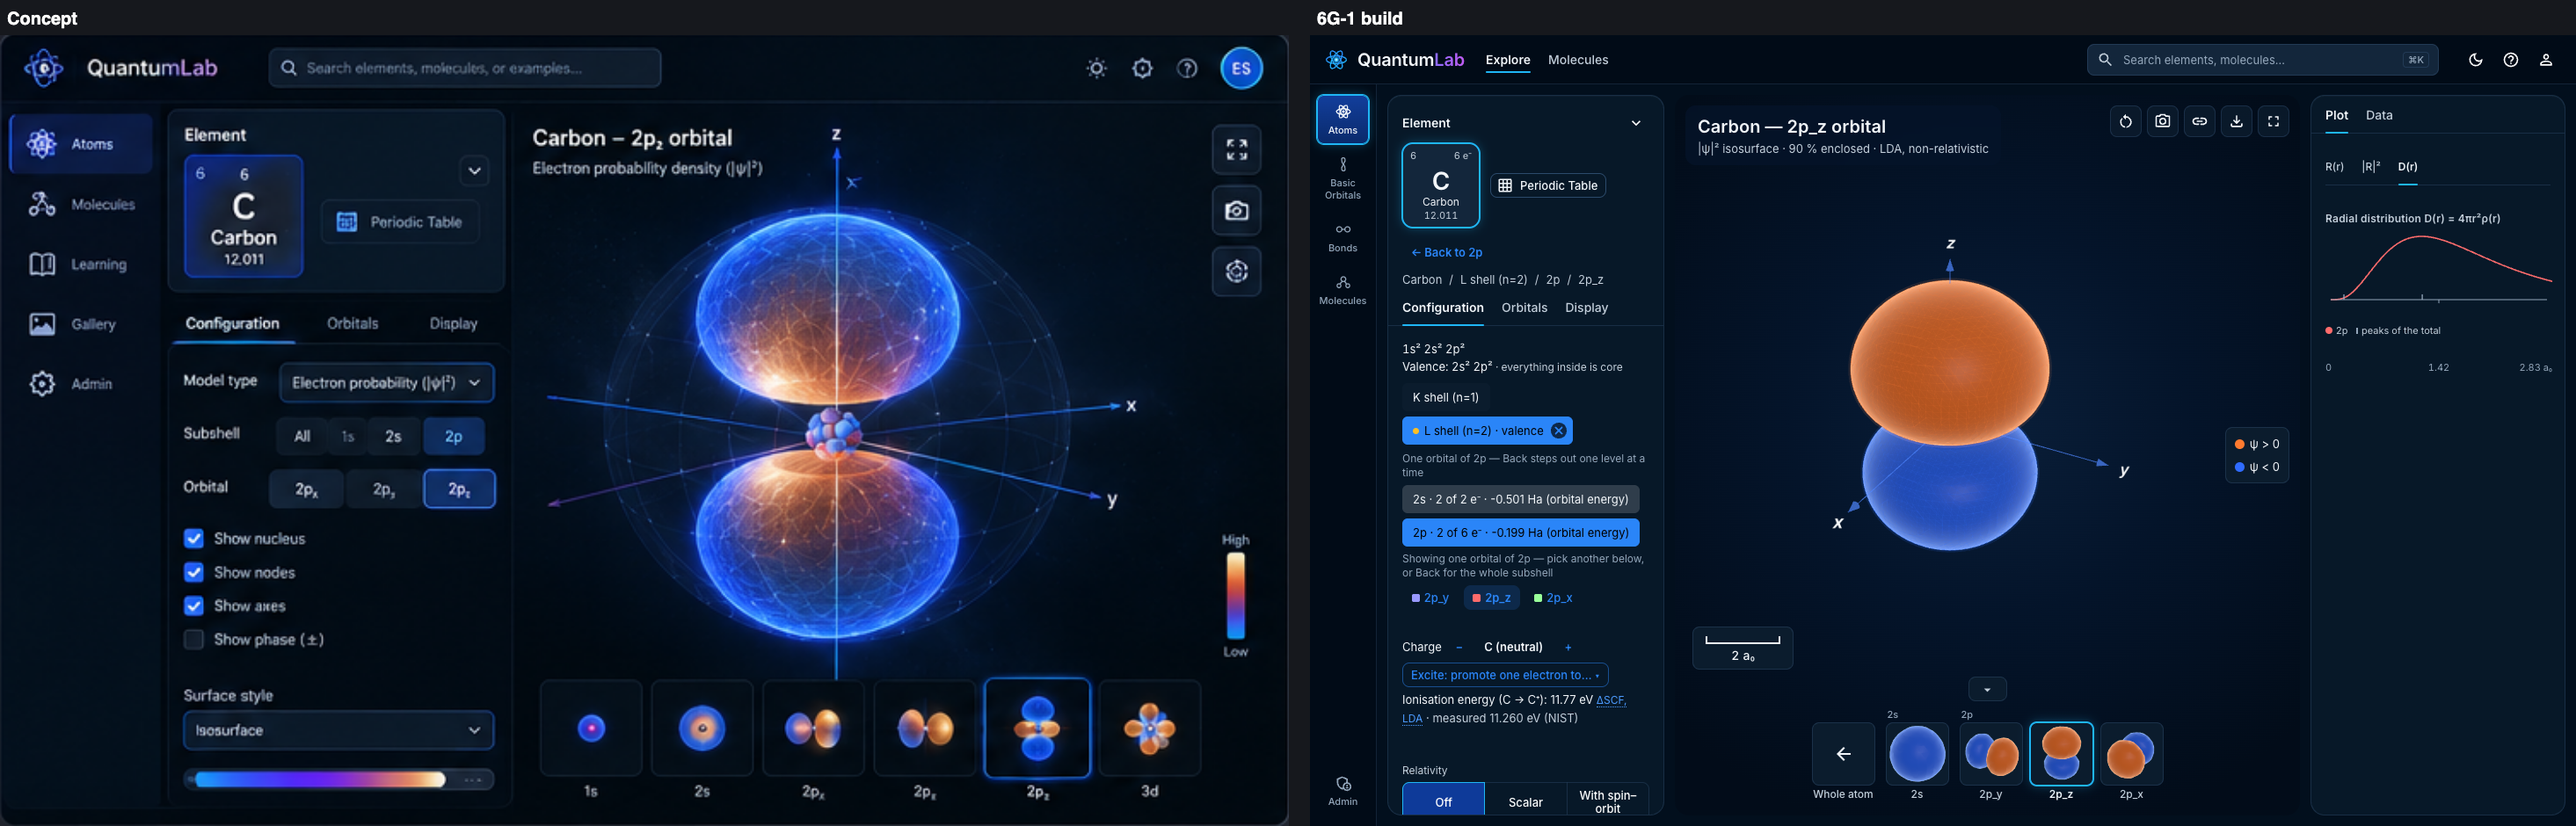
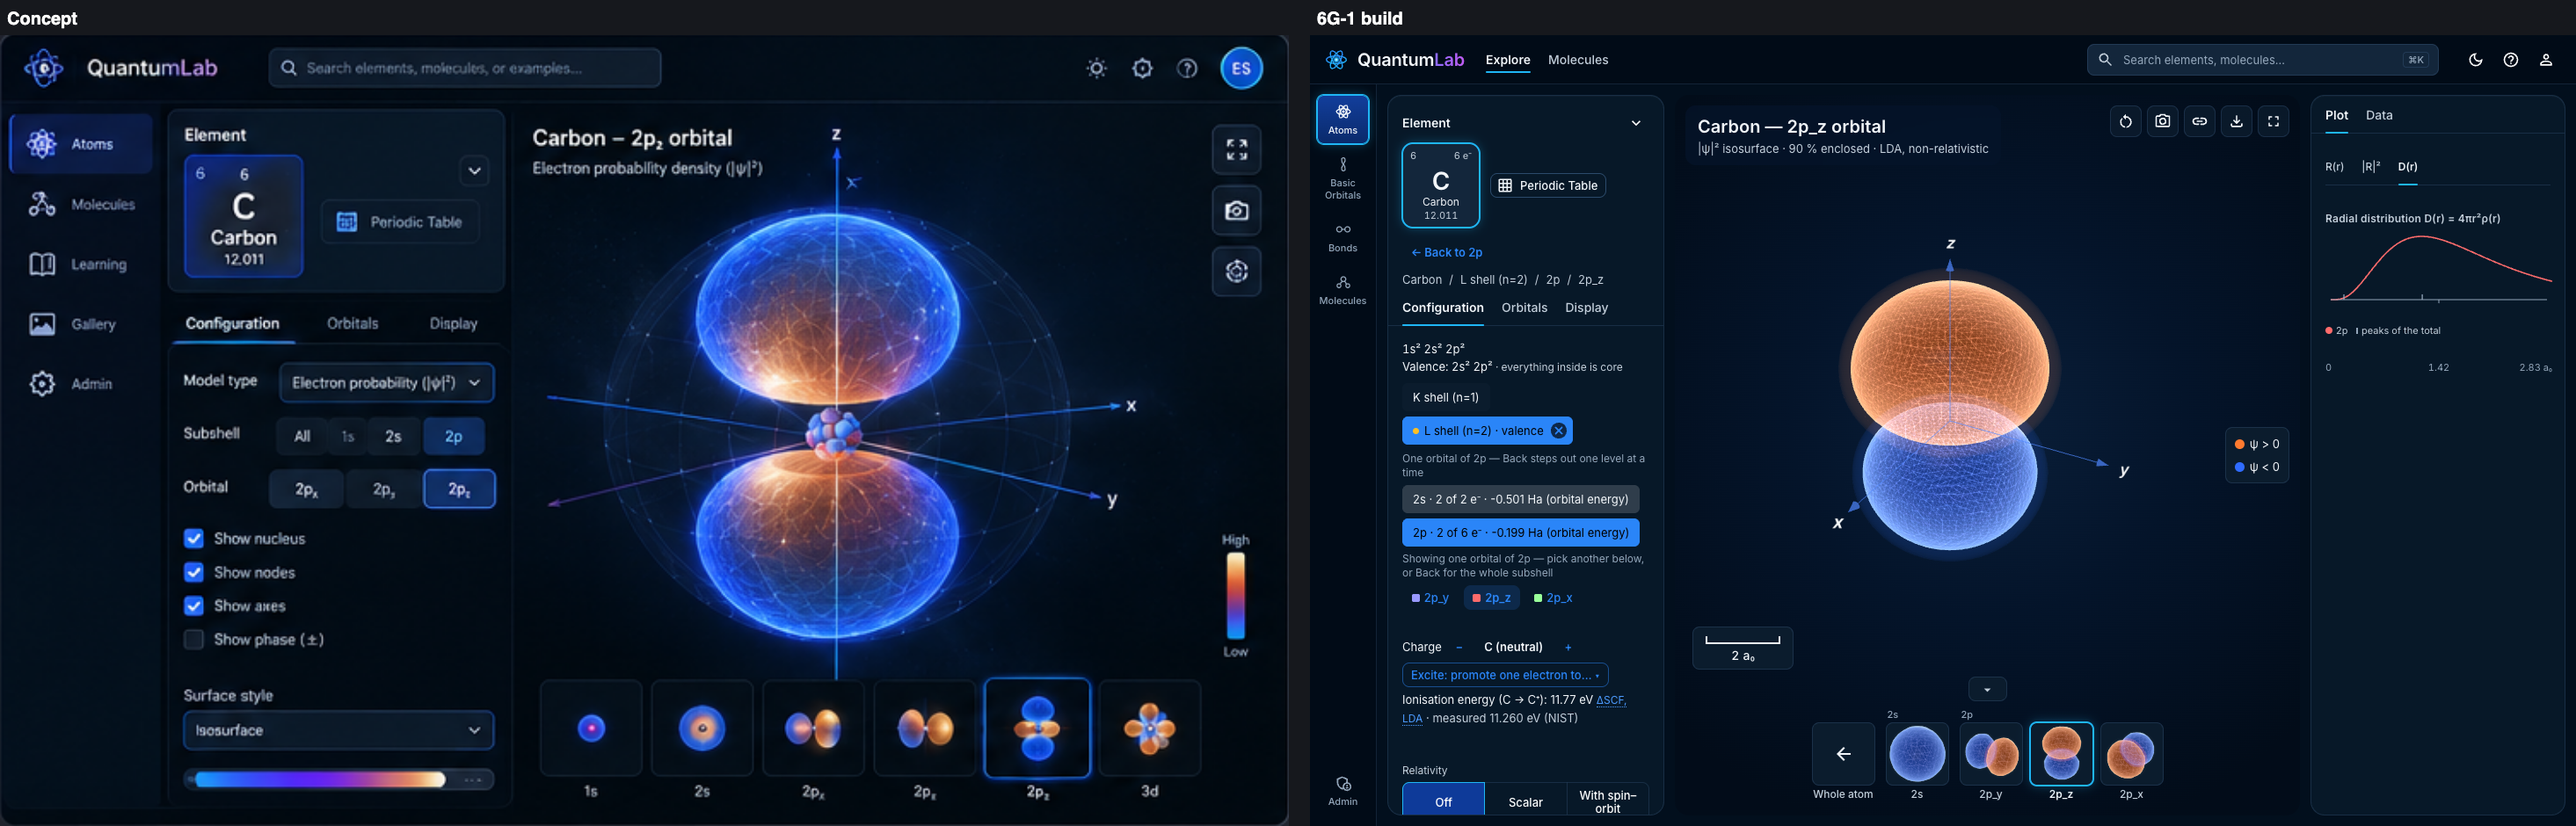
docs(design): 6G-1 composites re-taken after the owner's tuning -- shared palette, 0.7 opacity, concept Glow, crisp tiles; shoot.mjs --gl metal and --dpr (Phase 6G-1)
Same scenes, file names and composite commands as Task 19, captured with --gl metal so Glow's lines and halo are shot before (and without) R10's software-GL latch. 12/12 shots settled, one WebGL canvas, no errors, tokens exact; science_diff against origin/main 15feebc: identical. CHECKLIST.md records the re-take (date, commit). shoot.mjs: --gl swiftshader|metal (default unchanged), --dpr N with colour samples scaled to device pixels.

Changed region(s): [[0.7143, 0.3085, 0.8075, 0.6787], [0.7143, 0.8947, 0.8386, 0.9564]]

diff --git a/docs/quantumlab/checks/6G-1/CHECKLIST.md b/docs/quantumlab/checks/6G-1/CHECKLIST.md
@@ -206,3 +206,30 @@ inline; science text identical to `main` on every compared field. No failing ite
 route anything to.
 
 Taken 2026-10-13 at commit `3f8b331`.
+
+---
+
+## Re-taken after the owner's tuning (Task 20a)
+
+**The composites in this folder were re-taken on 2026-10-13 at commit `f774559`**, after the
+owner's review of the Task 19 set (rulings R20a-1..4): one phase palette in both themes
+(Light Clean's lobes are now `#FF7A2F` / `#2F6BFF`, as in Deep Space; the key swatch carries a
+`swatch-ring` outline for 3:1), a fresh session opens at opacity 0.7, Glow tuned towards the
+concept (dimmer translucent body, whitened mesh-line network, wider same-phase rim, soft band
+halo; values in `GLOW_TUNING`), and crisp strip thumbnails in the main view's look
+(tile × dpr × 2, 4× MSAA, same opacity and Glow). The section tables above describe the Task 19
+captures; the layout, token, box and typography results are unchanged in the re-take.
+
+Same tool, scenes, file names and composite commands as Task 19, with one addition:
+`node tools/design/shoot.mjs --task 20a --scenes c-whole,c-2pz,fe-shell --themes dark,light
+--sizes desktop,phone --gl metal --wait 6000`. `--gl metal` renders headless Chromium on the
+Mac's GPU (ANGLE Metal) instead of SwiftShader, so Glow's mesh lines and halo are shot as a user
+sees them, never latched off by ruling R10's guard on ~80 ms software frames (ruling T15-softgl).
+Phone shots show no lines or halo by design (`lowPower`, spec §15).
+
+Re-take results (`/tmp/6g1-20a-metrics.json`): 12/12 shots `settled=true`, `webglCanvases=1`,
+`errors=0`; every colour sample ΔE₀₀ = 0 against its token (canvas on/off within 5); boxes
+top bar 56, rail 76, Explore 315, inspector 290, phone top bar 52, phone header 44 — exact;
+Inter Variable, title 20/600, nav 14/600, body 13/400. `controls card` reads `missing` on desktop
+shots for the capture-time reason in the preamble. `science_diff.mjs` against `origin/main`
+@ 15feebc (`/tmp/6g1-T19main-metrics.json`; main has not moved): **science text identical to main**.
